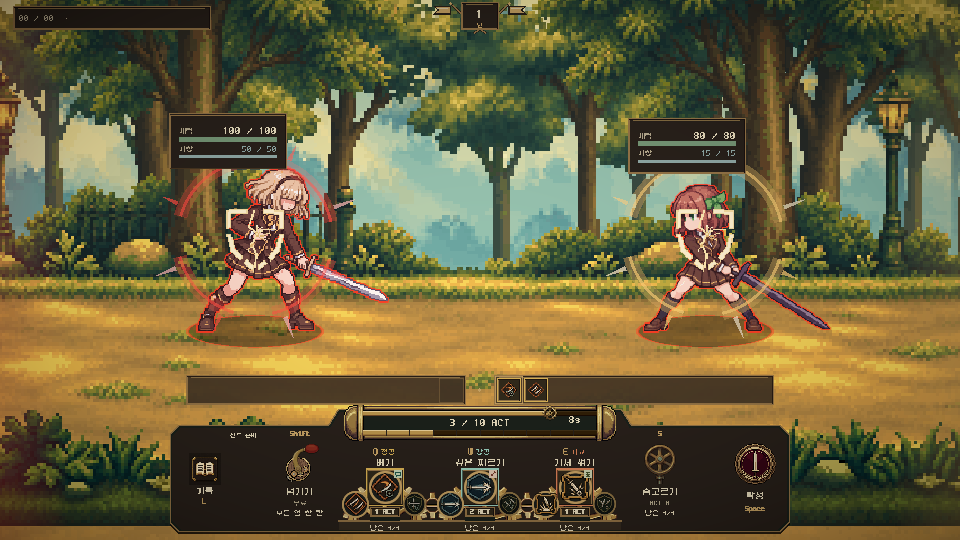
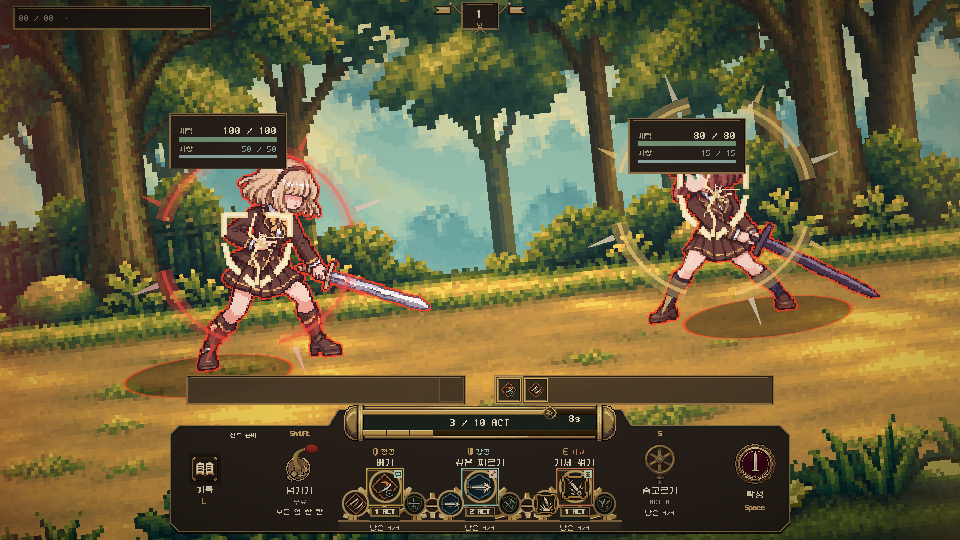
저항 붕괴 이펙트 표시 위치 수정

diff --git a/Assets/Game/Tests/PlayMode/BreakShieldPlayModeTests.cs b/Assets/Game/Tests/PlayMode/BreakShieldPlayModeTests.cs
@@ -158,6 +158,18 @@ namespace TurnLimbo.Presentation.Tests
                     yield return null;
                     arena.SetResistanceBroken(true, true);
                     arena.Tick(.1f, .1f);
+                    // Real attacks/recoil displace GPU vertices while keeping the actor Transform still.
+                    var displacement = new MaterialPropertyBlock();
+                    arena.PlayerRenderer.GetPropertyBlock(displacement);
+                    displacement.SetVector("_AttackOffset", new Vector4(1.1f, .1f, 0, 0));
+                    arena.PlayerRenderer.SetPropertyBlock(displacement);
+                    arena.EnemyRenderer.GetPropertyBlock(displacement);
+                    displacement.SetVector("_AttackOffset", new Vector4(-.75f, .1f, 0, 0));
+                    arena.EnemyRenderer.SetPropertyBlock(displacement);
+                    arena.PlayerBreakAura.RefreshPose();
+                    arena.EnemyBreakAura.RefreshPose();
+                    camera.transform.rotation = Quaternion.Euler(0, 0, -6);
+                    camera.orthographicSize = 4.8f;
                     hud.Refresh(new LegacyQueuedDuel(), 8f, false, -1, camera,
                         arena.PlayerRenderer.transform, arena.EnemyRenderer.transform);
                     foreach (Renderer other in Object.FindObjectsByType<Renderer>(FindObjectsSortMode.None))
@@ -179,12 +191,17 @@ namespace TurnLimbo.Presentation.Tests
                         cue.Show(true);
                         cue.Show(false);
                         cue.Tick(frame / 24f, camera, arena.PlayerRenderer.transform, arena.EnemyRenderer.transform);
-                        Vector3 torsoScreen = camera.WorldToScreenPoint(arena.PlayerRenderer.transform.TransformPoint(new Vector3(0, -.15f, 0)));
+                        Vector3 torsoScreen = camera.WorldToScreenPoint(arena.PlayerRenderer.transform.TransformPoint(new Vector3(1.1f, -.05f, 0)));
                         var shield = Shield(canvasRoot, true);
                         RectTransformUtility.ScreenPointToLocalPointInRectangle((RectTransform)shield.transform.parent,
                             torsoScreen, camera, out Vector2 torso);
                         Assert.That(Vector2.Distance(shield.rectTransform.anchoredPosition, torso), Is.LessThan(.1f),
-                            "The new player's centred pivot must not inherit the old upper-body's horizontal offset.");
+                            "The glyph must follow the drawn torso including shader-only attack/recoil displacement.");
+                        var enemyShield = Shield(canvasRoot, false);
+                        Vector3 enemyTorsoScreen = camera.WorldToScreenPoint(arena.EnemyRenderer.transform.TransformPoint(new Vector3(-.75f, -.05f, 0)));
+                        RectTransformUtility.ScreenPointToLocalPointInRectangle((RectTransform)enemyShield.transform.parent,
+                            enemyTorsoScreen, camera, out Vector2 enemyTorso);
+                        Assert.That(Vector2.Distance(enemyShield.rectTransform.anchoredPosition, enemyTorso), Is.LessThan(.1f));
                         AssertSharedCenter(canvasRoot, true);
                         AssertSharedCenter(canvasRoot, false);
                         Canvas.ForceUpdateCanvases();

diff --git a/Assets/Game/Presentation/DuelBreakImpactCue.cs b/Assets/Game/Presentation/DuelBreakImpactCue.cs
@@ -12,6 +12,8 @@ namespace TurnLimbo.Presentation
         private const float EdgeDuration = .38f;
         private static readonly Color PlayerInk = new Color32(255, 81, 68, 255);
         private static readonly Color EnemyInk = new Color32(255, 208, 119, 255);
+        private static readonly int AttackOffsetId = Shader.PropertyToID("_AttackOffset");
+        private readonly MaterialPropertyBlock actorProperties = new MaterialPropertyBlock();
 
         private readonly RectTransform root;
         private readonly Canvas canvas;
@@ -144,8 +146,16 @@ namespace TurnLimbo.Presentation
                     spriteName.StartsWith("enemy-", StringComparison.Ordinal) ||
                     spriteName.StartsWith("cadet-", StringComparison.Ordinal);
                 // The shield and its surrounding wave share one torso anchor, including during camera focus.
-                Vector3 body = actor.TransformPoint(centredBody
-                    ? new Vector3(0f, -.15f, 0f) : DuelStepHud.ActorBodyLocalOffset);
+                Vector3 localBody = centredBody ? new Vector3(0f, -.15f, 0f) : DuelStepHud.ActorBodyLocalOffset;
+                if (renderer != null)
+                {
+                    renderer.GetPropertyBlock(actorProperties);
+                    Vector4 offset = actorProperties.GetVector(AttackOffsetId);
+                    if (Finite(offset.x) && Finite(offset.y) && Finite(offset.z))
+                        localBody += new Vector3(offset.x, offset.y, offset.z);
+                }
+                // AttackSprite applies this displacement after sprite flipping without moving the Transform.
+                Vector3 body = actor.TransformPoint(localBody);
                 Vector3 screen = arenaCamera.WorldToScreenPoint(body);
                 Camera uiCamera = canvas != null && canvas.renderMode != RenderMode.ScreenSpaceOverlay
                     ? canvas.worldCamera : null;
@@ -166,6 +176,8 @@ namespace TurnLimbo.Presentation
             // fixed HUD size, otherwise the 1920px combat canvas and camera close-ups hide them inside the body.
             view.Burst.rectTransform.localScale = Vector3.one * (view.Shield.rectTransform.sizeDelta.x / 200f);
         }
+
+        private static bool Finite(float value) => !float.IsNaN(value) && !float.IsInfinity(value);
 
         private static void ResetView(View view)
         {
